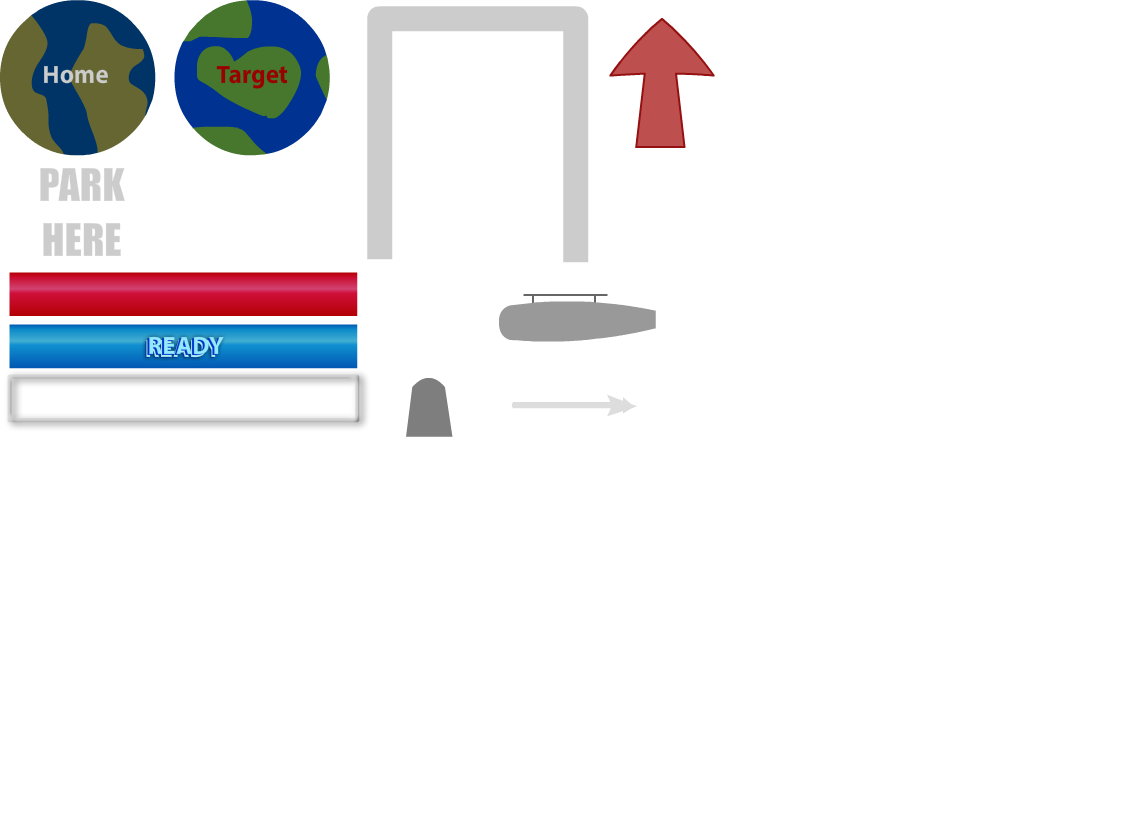
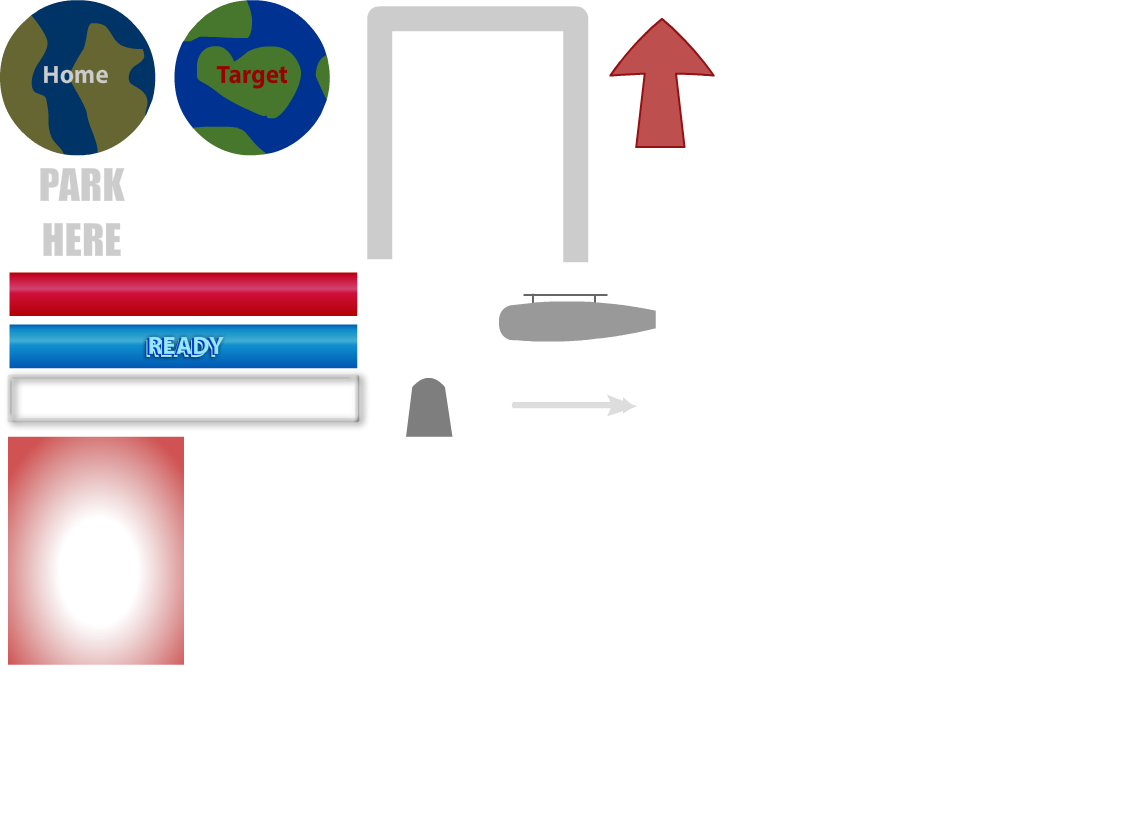
Added Parking Glow

Changed region(s): [[0.0, 0.4994, 0.1832, 0.8115]]

diff --git a/Assets/Scripts/HarpoonGun.cs b/Assets/Scripts/HarpoonGun.cs
@@ -19,7 +19,6 @@ public class HarpoonGun : MonoBehaviour {
     private List<HarpoonTarget> currentlyAttached;
     private List<Tether> tethers;
     private Transform _transform;
-	[SerializeField] SpriteRenderer harpoonSprite;
 
 	public static HarpoonGun gun;
 
@@ -101,12 +100,10 @@ public class HarpoonGun : MonoBehaviour {
     {
         return cooldownRemaining <= 0.00001f;
     }
-
     public bool AttachedToTarget()
     {
         return currentlyAttached.Count > 0;
     }
-
     void ReleaseHarpoons()
     {
         foreach (HarpoonTarget target in currentlyAttached)
@@ -129,7 +126,6 @@ public class HarpoonGun : MonoBehaviour {
         }
         tethers.Clear();
     }
-
     void Update()
     {
         if (Input.GetButton("ReleaseHarpoon"))
@@ -137,20 +133,16 @@ public class HarpoonGun : MonoBehaviour {
             ReleaseHarpoons();
         }
     }
-
 	void FixedUpdate()
 	{
 		if (cooldownRemaining > 0)
 		{
-			harpoonSprite.enabled = false;
 			cooldownRemaining -= Time.deltaTime;
 			if (cooldownRemaining < 0)
 			{
 				cooldownRemaining = 0;
 			}
 		}
-		else
-			harpoonSprite.enabled = true;
 		
 		float cooldownPercent = (cooldownSecs - cooldownRemaining) / cooldownSecs;
 		
@@ -159,12 +151,12 @@ public class HarpoonGun : MonoBehaviour {
 		Vector2 direction = new Vector2(aim.x, aim.y);
 		Rigidbody2D playerbody = PlayerController.player.rigidbody2D;
 		float angle = Vector2.Angle(direction - playerbody.position, rigidbody2D.position - playerbody.position);
-		if(angle > 90)
+		if(angle > 60)
 		{
 			Vector3 cross = Vector3.Cross(direction - playerbody.position, rigidbody2D.position - playerbody.position);
 			float sign = Mathf.Sign(cross.z);
 			
-			transform.RotateAround(PlayerController.player.transform.position, Vector3.forward, (90 - angle) * sign);
+			transform.RotateAround(PlayerController.player.transform.position, Vector3.forward, (60 - angle) * sign);
 		}
 	}
 }

diff --git a/Assets/Scripts/Parking.cs b/Assets/Scripts/Parking.cs
@@ -2,7 +2,6 @@
 using System.Collections;
 
 public class Parking : MonoBehaviour {
-
 	// Use this for initialization
 	void Start () {
 	
@@ -16,5 +15,10 @@ public class Parking : MonoBehaviour {
     void OnTriggerEnter2D(Collider2D collider)
     {
         Debug.Log("Parked");
+        SpriteRenderer[] innerSprites = GetComponentsInChildren<SpriteRenderer>();//.enabled = true;
+        foreach (SpriteRenderer sprite in innerSprites)
+        {
+            sprite.enabled = true;
+        }
     }
 }
